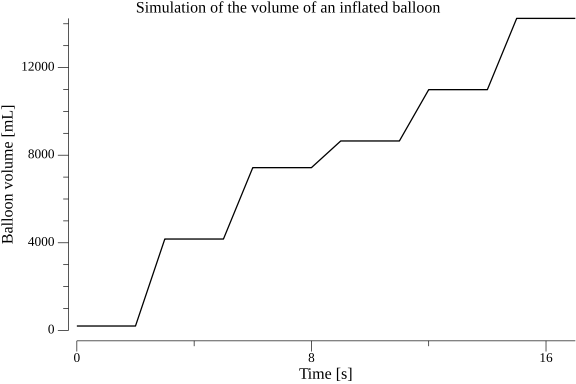
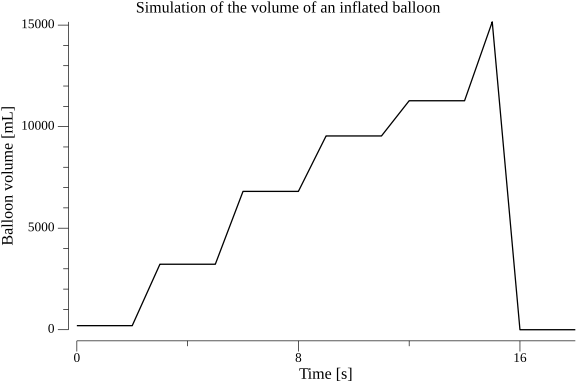
4 plots created

diff --git a/main.go b/main.go
@@ -3,6 +3,7 @@ package main
 import (
 	"fmt"
 	"log"
+	"math"
 	"math/rand"
 	"time"
 
@@ -14,37 +15,47 @@ import (
 func main() {
 
 	// Initializing data
+	var radius float64 = 6
+	var surface float64 = 4 * radius * radius * math.Pi
 	var volume float64 = 200
 	var weight float64 = 0.241
 	var balloonVolume []float64
 	var balloonWeight []float64
+	var balloonRadius []float64
+	var balloonSurface []float64
+	balloonSurface = append(balloonSurface, surface)
 	balloonVolume = append(balloonVolume, 200)
 	balloonWeight = append(balloonWeight, 0)
+	balloonRadius = append(balloonRadius, radius)
 	rand.Seed(time.Now().UnixNano())
 	var time int = 0
 
 	// Creating plots
 	p := plot.New()
 	w := plot.New()
+	d := plot.New()
+	q := plot.New()
 
 	// Balloon pumping simulation
-	balloonVolume, balloonWeight, time = pumpBalloon(volume, time, weight, balloonVolume, balloonWeight)
+	balloonVolume, balloonWeight, balloonRadius, balloonSurface, time = pumpBalloon(volume, time, weight, radius, surface, balloonSurface, balloonVolume, balloonWeight, balloonRadius)
 
 	// Creating plots data
 	pts := make(plotter.XYs, time)
 	wts := make(plotter.XYs, time)
+	dts := make(plotter.XYs, time)
+	qts := make(plotter.XYs, time)
 
-	addData(pts, wts, time, balloonVolume, balloonWeight)
-	createLines(pts, p, wts, w)
-	setPlotDetails(p, w)
+	addData(pts, wts, dts, qts, time, balloonVolume, balloonWeight, balloonRadius, balloonSurface)
+	createLines(pts, p, wts, w, dts, d, qts, q)
+	setPlotDetails(p, w, d, q)
 
 	// Saving plots to the files
 
-	savePlots(p, w)
+	savePlots(p, w, d, q)
 
 }
 
-func createLines(pts plotter.XYs, p *plot.Plot, wts plotter.XYs, w *plot.Plot) {
+func createLines(pts plotter.XYs, p *plot.Plot, wts plotter.XYs, w *plot.Plot, dts plotter.XYs, d *plot.Plot, qts plotter.XYs, q *plot.Plot) {
 	line, err := plotter.NewLine(pts)
 	if err != nil {
 		log.Fatal(err)
@@ -55,27 +66,52 @@ func createLines(pts plotter.XYs, p *plot.Plot, wts plotter.XYs, w *plot.Plot) {
 		log.Fatal(nErr)
 	}
 	w.Add(nLine)
+	dLine, dErr := plotter.NewLine(dts)
+	if dErr != nil {
+		log.Fatal(dErr)
+	}
+	d.Add(dLine)
+	qLine, qErr := plotter.NewLine(qts)
+	if qErr != nil {
+		log.Fatal(qErr)
+	}
+	q.Add(qLine)
 }
 
-func pumpBalloon(volume float64, time int, weight float64, balloonVolume []float64, balloonWeight []float64) ([]float64, []float64, int) {
+func pumpBalloon(volume float64, time int, weight float64, radius float64, surface float64, ballonSurface []float64, balloonVolume []float64, balloonWeight []float64, balloonRadius []float64) ([]float64, []float64, []float64, []float64, int) {
 	for volume < 15000 {
 		time += 1
 
 		if time%3 == 0 {
 			volume = volume + 1000 + 3000*rand.Float64()
 			weight = volume * 0.001205
+			number := ((3.0 / 4.0) * volume) / math.Pi
+			radius = math.Pow(number, 1.0/3.0)
+			surface = 4 * radius * radius * math.Pi
+
 			balloonVolume = append(balloonVolume, volume)
 			balloonWeight = append(balloonWeight, weight)
+			balloonRadius = append(balloonRadius, radius)
+			ballonSurface = append(ballonSurface, surface)
 		} else {
 			balloonVolume = append(balloonVolume, volume)
 			balloonWeight = append(balloonWeight, weight)
+			balloonRadius = append(balloonRadius, radius)
+			ballonSurface = append(ballonSurface, surface)
 		}
 
 	}
-	return balloonVolume, balloonWeight, time
+	for i := 0; i < 4; i++ {
+		balloonVolume = append(balloonVolume, 0)
+		balloonWeight = append(balloonWeight, 0)
+		balloonRadius = append(balloonRadius, 0)
+		ballonSurface = append(ballonSurface, 0)
+		time += 1
+	}
+	return balloonVolume, balloonWeight, balloonRadius, ballonSurface, time
 }
 
-func setPlotDetails(p *plot.Plot, w *plot.Plot) {
+func setPlotDetails(p *plot.Plot, w *plot.Plot, d *plot.Plot, q *plot.Plot) {
 	p.Title.Text = "Simulation of the volume of an inflated balloon"
 	p.X.Label.Text = "Time [s]"
 	p.Y.Label.Text = "Balloon volume [mL]"
@@ -87,18 +123,34 @@ func setPlotDetails(p *plot.Plot, w *plot.Plot) {
 	w.Y.Label.Text = "internal weight of the balloon [g]"
 	w.X.Min = 0
 	w.Y.Min = 0
+
+	d.Title.Text = "Simulation of the radius of an inflated balloon"
+	d.X.Label.Text = "Time [s]"
+	d.Y.Label.Text = "Balloon radius [cm]"
+	d.X.Min = 0
+	d.Y.Min = 0
+
+	q.Title.Text = "Simulation of the surface of an inflated balloon"
+	q.X.Label.Text = "Time [s]"
+	q.Y.Label.Text = "internal weight of the balloon [cm^2]"
+	q.X.Min = 0
+	q.Y.Min = 0
 }
 
-func addData(pts plotter.XYs, wts plotter.XYs, time int, balloonVolume []float64, balloonWeight []float64) {
+func addData(pts plotter.XYs, wts plotter.XYs, dts plotter.XYs, qts plotter.XYs, time int, balloonVolume []float64, balloonWeight []float64, balloonRadius []float64, balloonSurface []float64) {
 	for i := 0; i < time; i++ {
 		pts[i].X = float64(i)
 		pts[i].Y = balloonVolume[i]
 		wts[i].X = float64(i)
 		wts[i].Y = balloonWeight[i]
+		dts[i].X = float64(i)
+		dts[i].Y = balloonRadius[i]
+		qts[i].X = float64(i)
+		qts[i].Y = balloonSurface[i]
 	}
 }
 
-func savePlots(p *plot.Plot, w *plot.Plot) {
+func savePlots(p *plot.Plot, w *plot.Plot, d *plot.Plot, q *plot.Plot) {
 	if err := p.Save(6*vg.Inch, 4*vg.Inch, "balloonVolume_simulation.png"); err != nil {
 		fmt.Println("Error during saving the plot:", err)
 	} else {
@@ -109,5 +161,16 @@ func savePlots(p *plot.Plot, w *plot.Plot) {
 		fmt.Println("Error during saving the plot:", err)
 	} else {
 		fmt.Println("Plot has been saved to the file 'balloonWeight_simulation.png'.")
+	}
+	if err := d.Save(6*vg.Inch, 4*vg.Inch, "balloonRadius_simulation.png"); err != nil {
+		fmt.Println("Error during saving the plot:", err)
+	} else {
+		fmt.Println("Plot has been saved to the file 'balloonRadius_simulation.png'.")
+	}
+
+	if err := q.Save(6*vg.Inch, 4*vg.Inch, "balloonSurface_simulation.png"); err != nil {
+		fmt.Println("Error during saving the plot:", err)
+	} else {
+		fmt.Println("Plot has been saved to the file 'balloonSurface_simulation.png'.")
 	}
 }
